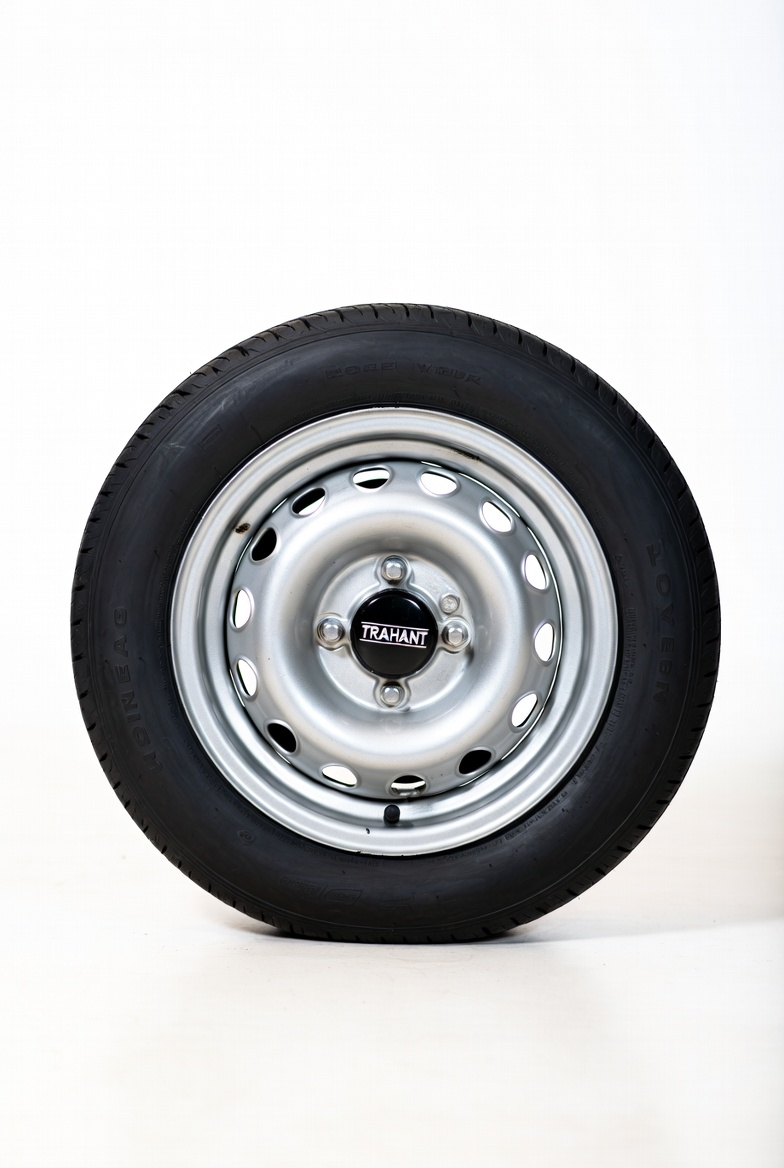
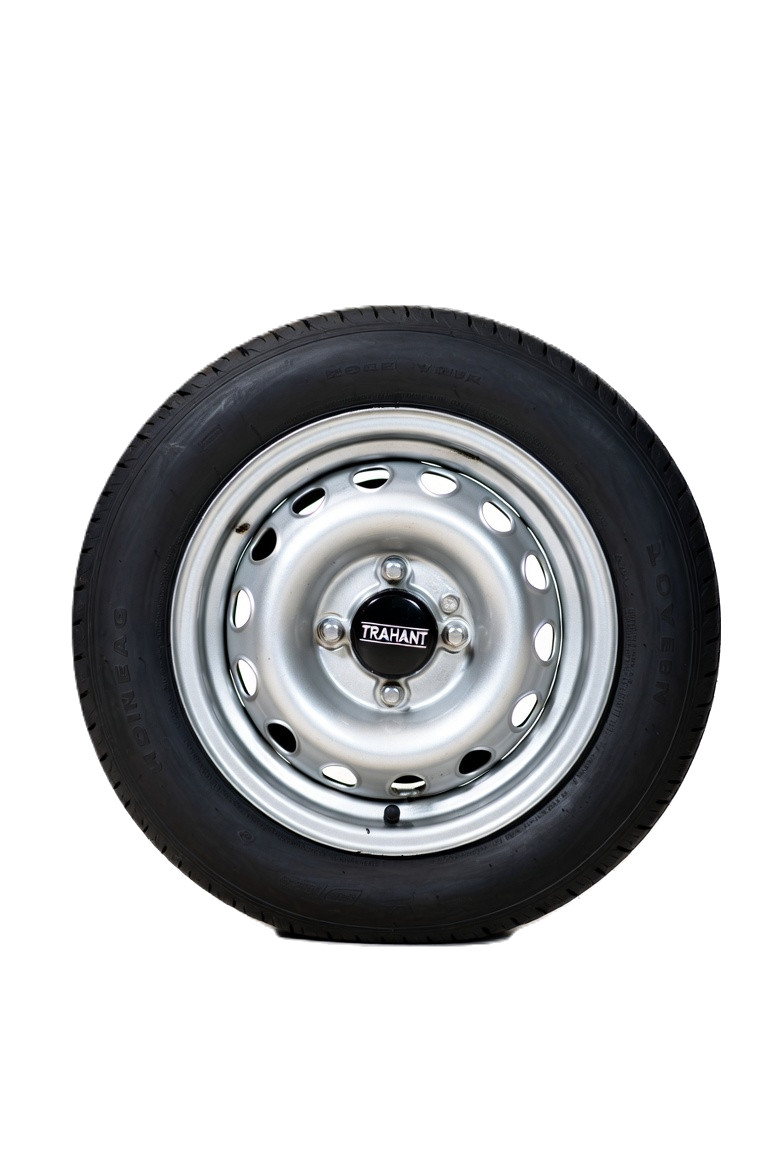
upgrade1

diff --git a/index.html b/index.html
@@ -33,7 +33,7 @@
                 <img 
                     class="car-layer" 
                     id="bodyLayer"
-                    src="assets/body/trabant_body.jpg" 
+                    src="assets/body/trabant_body.png" 
                     alt="Karosszéria"
                     draggable="false"
                 >
@@ -42,7 +42,7 @@
                 <img 
                     class="car-layer wheel-layer" 
                     id="wheelFrontLeft"
-                    src="assets/wheels/wheel_standard.jpg"
+                    src="assets/wheels/wheel_standard.png"
                     alt="Első kerék bal"
                     style="left: 12%; bottom: 8%; width: 18%;"
                     draggable="false"
@@ -52,7 +52,7 @@
                 <img 
                     class="car-layer wheel-layer" 
                     id="wheelRearRight"
-                    src="assets/wheels/wheel_standard.jpg"
+                    src="assets/wheels/wheel_standard.png"
                     alt="Hátsó kerék jobb"
                     style="right: 14%; bottom: 8%; width: 18%;"
                     draggable="false"
